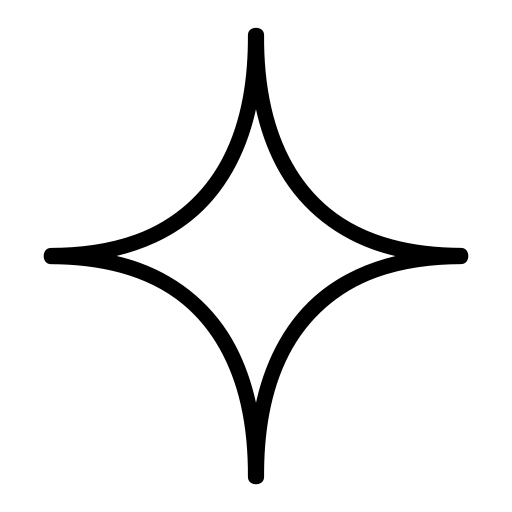
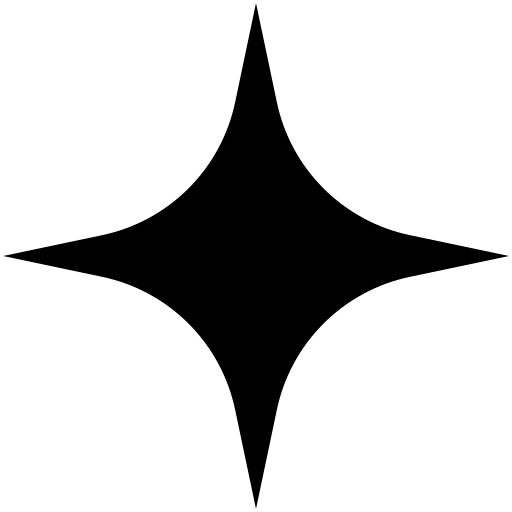
removed unwanted files

Changed region(s): [[0.0312, 0.0312, 0.9688, 0.9688]]

diff --git a/components/Upgrade.vue b/components/Upgrade.vue
@@ -1,0 +1,188 @@
+<template>
+    <section class="upgrade top,bottom padding-160px below 768 top,bottom pading 80px">
+        <div class="margin 680 sides for 4k, margin 120 sides for 1440 >1440 no margin padding 16px on sides for all">
+            <div class="grid-container">
+                <div class="box-1">
+                    <p class="heading with margin-bottom 12px and add color">Upgrade</p>
+                    <h2 class="caption with margin-bottom 12px ">Upgrade Your Storage Layer</h2>
+                    <p class="suggestion with margin-bottom 28px">Get faster, safer, more affordable cloud object storage with no centeral point of failure.</p>
+                    <div class="inner-grid">
+                        <div class=" flex-gap-5">
+                            <svg xmlns="http://www.w3.org/2000/svg" xmlns:xlink="http://www.w3.org/1999/xlink" aria-hidden="true" role="img" class="iconify iconify--la text-white group-hover:text-primary" width="24" height="24" viewBox="0 0 32 32"><path fill="currentColor" d="M16 3C8.8 3 3 8.8 3 16s5.8 13 13 13s13-5.8 13-13c0-1.398-.188-2.793-.688-4.094L26.688 13.5c.2.8.313 1.602.313 2.5c0 6.102-4.898 11-11 11S5 22.102 5 16S9.898 5 16 5c3 0 5.695 1.195 7.594 3.094L25 6.688C22.7 4.386 19.5 3 16 3m11.281 4.281L16 18.563l-4.281-4.282l-1.438 1.438l5 5l.719.687l.719-.687l12-12z"></path></svg>
+                            <div>
+                                <h4>100% Secure</h4>
+                            </div>
+                        </div>
+                        <div class=" flex-gap-5">
+                            <svg xmlns="http://www.w3.org/2000/svg" xmlns:xlink="http://www.w3.org/1999/xlink" aria-hidden="true" role="img" class="iconify iconify--la text-white group-hover:text-primary" width="24" height="24" viewBox="0 0 32 32"><path fill="currentColor" d="M16 3C8.8 3 3 8.8 3 16s5.8 13 13 13s13-5.8 13-13c0-1.398-.188-2.793-.688-4.094L26.688 13.5c.2.8.313 1.602.313 2.5c0 6.102-4.898 11-11 11S5 22.102 5 16S9.898 5 16 5c3 0 5.695 1.195 7.594 3.094L25 6.688C22.7 4.386 19.5 3 16 3m11.281 4.281L16 18.563l-4.281-4.282l-1.438 1.438l5 5l.719.687l.719-.687l12-12z"></path></svg>
+                            <div>
+                                <h4>A Fraction of the Cost</h4>
+                            </div>
+                        </div>
+                        <div class=" flex-gap-5">
+                            <svg xmlns="http://www.w3.org/2000/svg" xmlns:xlink="http://www.w3.org/1999/xlink" aria-hidden="true" role="img" class="iconify iconify--la text-white group-hover:text-primary" width="24" height="24" viewBox="0 0 32 32"><path fill="currentColor" d="M16 3C8.8 3 3 8.8 3 16s5.8 13 13 13s13-5.8 13-13c0-1.398-.188-2.793-.688-4.094L26.688 13.5c.2.8.313 1.602.313 2.5c0 6.102-4.898 11-11 11S5 22.102 5 16S9.898 5 16 5c3 0 5.695 1.195 7.594 3.094L25 6.688C22.7 4.386 19.5 3 16 3m11.281 4.281L16 18.563l-4.281-4.282l-1.438 1.438l5 5l.719.687l.719-.687l12-12z"></path></svg>
+                            <div>
+                                <h4>More Durable</h4>
+                            </div>
+                        </div>
+                        <div class=" flex-gap-5">
+                            <svg xmlns="http://www.w3.org/2000/svg" xmlns:xlink="http://www.w3.org/1999/xlink" aria-hidden="true" role="img" class="iconify iconify--la text-white group-hover:text-primary" width="24" height="24" viewBox="0 0 32 32"><path fill="currentColor" d="M16 3C8.8 3 3 8.8 3 16s5.8 13 13 13s13-5.8 13-13c0-1.398-.188-2.793-.688-4.094L26.688 13.5c.2.8.313 1.602.313 2.5c0 6.102-4.898 11-11 11S5 22.102 5 16S9.898 5 16 5c3 0 5.695 1.195 7.594 3.094L25 6.688C22.7 4.386 19.5 3 16 3m11.281 4.281L16 18.563l-4.281-4.282l-1.438 1.438l5 5l.719.687l.719-.687l12-12z"></path></svg>
+                            <div>
+                                <h4>Easier to Use</h4>
+                            </div>
+                        </div>
+                    </div>
+                </div>
+                <div class="box-2">
+                    <div class="image-container">
+                        <img src="/images/img-upgrade.png" alt="">
+                    </div>
+                </div>
+            </div>
+        </div>
+    </section>
+</template>
+
+<style scoped>
+/* Main Section Padding */
+.upgrade {
+  padding-top: 160px;
+  padding-bottom: 160px;
+}
+
+@media (max-width: 768px) {
+  .upgrade {
+    padding-top: 80px;
+    padding-bottom: 80px;
+  }
+}
+
+/* Margin Container (Dynamic Side Margins) */
+.margin {
+  padding-left: 16px;
+  padding-right: 16px;
+}
+
+@media (min-width: 1441px) and (max-width: 2560px) {
+  .margin {
+    margin-left: 120px;
+    margin-right: 120px;
+  }
+}
+
+@media (min-width: 2561px) {
+  .margin {
+    margin-left: 680px;
+    margin-right: 680px;
+  }
+}
+
+/* Grid Layout */
+.grid-container {
+  display: flex;
+  flex-direction: row;
+  justify-content: space-between;
+  align-items: center;
+  flex-wrap: wrap;
+  gap: 40px;
+}
+
+@media (max-width: 1023px) {
+  .grid-container {
+    flex-direction: column;
+    gap: 0px;
+  }
+}
+
+/* Left Content Box */
+.box-1 {
+  flex: 1;
+  min-width: 320px;
+}
+
+/* Right Image Box */
+.box-2 {
+  flex: 1;
+  display: flex;
+  justify-content: center;
+  align-items: center;
+}
+
+/* Heading */
+.heading {
+  font-size: 18px;
+  margin-bottom: 12px;
+  color: rgb(153, 227, 158);
+  font-weight: 600;
+}
+
+/* Caption */
+.caption {
+  font-size: 32px;
+  font-weight: bold;
+  margin-bottom: 12px;
+  color: #ffffff;
+}
+
+@media (max-width: 768px) {
+  .caption {
+    font-size: 24px;
+  }
+}
+
+/* Subtext */
+.suggestion {
+  font-size: 16px;
+  margin-bottom: 28px;
+  color: #ccc;
+  line-height: 1.6;
+}
+
+/* Inner Grid for Features */
+.inner-grid {
+  display: grid;
+  grid-template-columns: 1fr 1fr;
+  gap: 20px 40px;
+}
+
+@media (max-width: 768px) {
+  .inner-grid {
+    grid-template-columns:2, 2fr;
+  }
+}
+
+@media (max-width: 768px) {
+  .inner-grid {
+    grid-template-columns: 1fr;
+  }
+}
+
+/* Icon Row */
+.flex-gap-5 {
+  display: flex;
+  align-items: center;
+  gap: 12px;
+}
+
+/* Icon Placeholder */
+.icon {
+  width: 32px;
+  height: 32px;
+  background-color: rgba(153, 227, 158, 0.2);
+  border-radius: 50%;
+  display: flex;
+  justify-content: center;
+  align-items: center;
+  color: rgb(153, 227, 158);
+  font-weight: bold;
+  font-size: 14px;
+}
+
+/* Image */
+.image-container img {
+  max-width: 100%;
+  height: auto;
+  border-radius: 12px;
+  box-shadow: 0 8px 24px rgba(0, 0, 0, 0.2);
+}
+</style>

diff --git a/components/Portfolio.vue b/components/Portfolio.vue
@@ -4,12 +4,12 @@
       <div class="portfolio-inner">
         <div class="portfolio-grid">
           <!-- First Box -->
-          <div class="first-box">
+          <div class="first-box scroll-down">
             <img src="/public/images/img-portfolio.png" alt="portfolio" />
           </div>
 
           <!-- Second Box -->
-          <div class="second-box">
+          <div class="second-box scroll-up">
             <p class="title">
               Cryptocurrency <span class="highlight">Portfolio</span>
             </p>
@@ -56,6 +56,28 @@
     </div>
   </section>
 </template>
+
+<script setup>
+onMounted(() => {
+  const observerOptions = {
+    threshold: 0.2,
+  };
+
+  const observer = new IntersectionObserver((entries) => {
+    entries.forEach(entry => {
+      if (entry.isIntersecting) {
+        entry.target.classList.add('animate');
+      } else {
+        entry.target.classList.remove('animate');
+      }
+    });
+  }, observerOptions);
+
+  const scrollElements = document.querySelectorAll('.scroll-down, .scroll-up');
+  scrollElements.forEach(el => observer.observe(el));
+});
+</script>
+
 
 <style scoped>
 /* Section padding */
@@ -262,6 +284,23 @@ td h4 {
   width: 32px;
   height: 32px;
   object-fit: contain;
+}
+
+.scroll-down, .scroll-up {
+  opacity: 0;
+  transform: translateY(150px);
+  transition: all 0.8s ease-out;
+}
+
+.scroll-up {
+  transform: translateY(-50px);
+}
+
+/* When visible */
+.scroll-down.animate,
+.scroll-up.animate {
+  opacity: 1;
+  transform: translateY(0);
 }
 
 </style>

diff --git a/pages/dashboard.vue b/pages/dashboard.vue
@@ -10,7 +10,7 @@
       <nav class="nav-desktop">
         <div class="menu-links">
           <a href="#">Buy & Sell</a>
-          <a href="#">Development</a>
+          <a href="#development" >Development</a>
           <a href="#">Work</a>
           <a href="#">Portfolio</a>
           <a href="#">Upgrade</a>
@@ -61,9 +61,11 @@
     <Banner />
   <CoinDetails />
     <WorkPannel />
-    <Development />
+    <section id="development"> <Development /></section>
+   
     <Getstarted />
     <Portfolio />
+    <Upgrade />
   <Footer />
   </section>
 </template>
@@ -76,6 +78,7 @@ import WorkPannel from '../components/WorkPannel.vue'
 import Development from '../components/Development.vue'
 import Getstarted from '../components/Getstarted.vue'
 import Portfolio from '../components/Portfolio.vue'
+import Upgrade from '../components/Upgrade.vue'
 import Footer from '../components/Footer.vue'
 
 const isSticky = ref(false)
@@ -125,7 +128,7 @@ html {
 }
 
 .header {
-  background: transparent;
+  /* background: transparent; */
   position: relative;
   width: 100%;
   z-index: 40;
@@ -134,7 +137,7 @@ html {
   justify-content: center;
   transition:
     padding 0.4s ease,
-    background-color 0.4s ease,
+    background-color 0.3s ease,
     transform 0.8s ease,
     opacity 0.4s ease;
 }
@@ -179,9 +182,9 @@ html {
 }
 
 .menu-links a {
-  color: white;
-  text-decoration: none;
-  font-weight: 500;
+  color:#D8DBDB;
+  font-family:sans-serif;
+  font-weight: 700;
   transition: color 0.3s;
 }
 

diff --git a/nuxt.config.ts b/nuxt.config.ts
@@ -37,9 +37,7 @@ export default defineNuxtConfig({
           href: 'https://fonts.googleapis.com/css2?family=Montserrat:wght@400;500;600;700&display=swap'
         },
          {
-          rel: 'icon',
-          type: 'image/png',
-          href: 'images/star.png'
+           rel:"shortcut icon", href:"https://www.rawpixel.com/image/8397641/sparkle-icon-png-sticker-transparent-background#eyJrZXlzIjoic3BhcmtsZSBpY29ucyIsInNvcnRlZEtleXMiOiJpY29uIHNwYXJrbGUifQ==" ,type:"image/x-icon"
         },
         {
          rel:"stylesheet",

diff --git a/components/Development.vue b/components/Development.vue
@@ -210,7 +210,7 @@ onMounted(() => {
 }
 .timeline-center {
   max-width: 100%;
-  height: auto;
+  height:850px;
   display: block;
   margin: 0 auto;
   position: relative;
